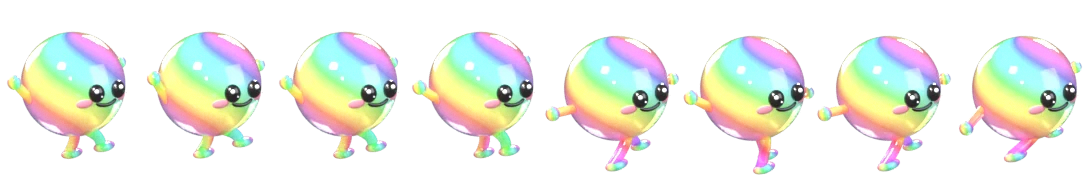
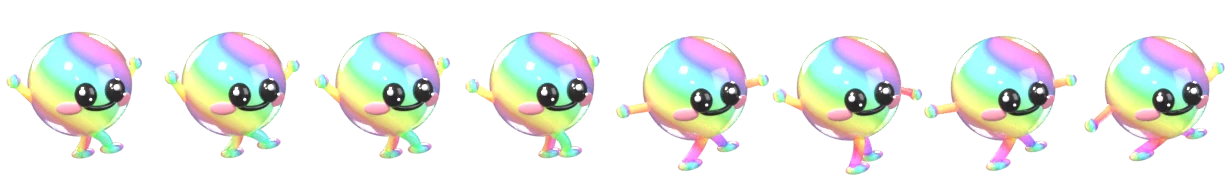
Game: jelly wobble physics, bigger happier love face
- Damped jelly wobble, separate from the speed stretch (width and height
  swing in opposite phase): a quick boing on take-off, a bigger one on
  double jump, a landing wobble scaled by the fall height, and a big slow
  "booooing" at the checkpoint launch with a happy wobble held through
  the whole flight. Off under reduced motion.
- Love face: bigger glossy eyes, bigger and thicker grin, bigger rosy
  cheeks; love frames turn more toward the camera so the whole face
  shows (sheets widened to fit the open arms, same height and centre).

Claude-Session: https://claude.ai/code/session_019fbWZCuFJHkf5tasQWWvE6

diff --git a/index.html b/index.html
@@ -1456,7 +1456,7 @@ const CONE1=1.75,CONE2=4.7;/* multipliers measured on 1,900 generated chart stre
 function coneAt(T,gp,f){const st=w=>{const a=[];for(let j=f-w+1;j<=f;j++){if(j<1||gp[j]||T[j]==null||T[j-1]==null)continue;a.push(T[j]-T[j-1])}return a},am=st(6),as=st(24);if(am.length<3||as.length<5)return{mu:0,sg:30};return{mu:.5*am.reduce((x,y)=>x+y,0)/am.length,sg:Math.max(15,Math.sqrt(as.reduce((x,y)=>x+y*y,0)/as.length))}}/* drift = half the recent average step, spread = typical step size over the last 24 candles */
 function msg(t){const m=document.getElementById('gMsg');m.textContent=t;m.className='gameMsg'+(t?' show':'')}
 function reset(){R=fresh();ensure();R.y=ground(R.sx);R.cam=R.y;R.refY=R.y}
-function jump(){const dbl=R.air;R.vy=hold||R.fly>0||!ST.holdj?-JV:-MINV;/* the longer the button is held, the higher the jump; a quick tap is a short hop */R.air=true;R.buf=0;R.top0=R.y;R.sq=-.14;R.tko=TKO;if(dbl&&!RMQ.matches)R.flip=FLIP;sfx('jump',1+rnd(-.07,.07))}
+function jump(){const dbl=R.air;wob(dbl?.14:.11,20);R.vy=hold||R.fly>0||!ST.holdj?-JV:-MINV;/* the longer the button is held, the higher the jump; a quick tap is a short hop */R.air=true;R.buf=0;R.top0=R.y;R.sq=-.14;R.tko=TKO;if(dbl&&!RMQ.matches)R.flip=FLIP;sfx('jump',1+rnd(-.07,.07))}
 const vib=p=>{if(!RMQ.matches&&!sfxOff&&ST.vib&&navigator.vibrate)try{navigator.vibrate(p)}catch(e){}};
 function shake(a){if(!RMQ.matches&&ST.shake)R.shk=Math.max(R.shk,a*ST.shake/2)}
 function hitStop(f){R.stop=Math.max(R.stop,f/60)}
@@ -1475,15 +1475,15 @@ function crash(why){if(R.shield){R.shield=false;sfx('pu_shield');msg('Shield sav
 function respawn(){let i=Math.floor(R.sx/CW);while(R.top[i]==null||i*CW<R.sx)i++;R.sx=i*CW+60;R.y=ground(R.sx);R.vy=0;R.air=false;R.jumps=0;R.lost=0;R.blocked=false;R.snap=1;R.fly=0}
 function power(k,x,y){sfx('pu_'+k);if(k==='shield')R.shield=true;else if(k==='magnet')R.magT=8;else R.x2T=10;msg(PU[k][2]+'!');R.msgT=1.4;for(let i=0;i<12;i++)R.fx.push({x:x+rnd(-30,30),y:y+rnd(-30,30),vx:rnd(-160,160),vy:rnd(-240,80),l:rnd(.4,.8),c:PU[k][0]})}
 function step(dt){if(R.dead)return;if(R.stop>0){R.stop-=dt;R.zp*=Math.exp(-6*dt);return}/* hit-stop: the whole game freezes for a few frames on a big moment */R.t+=dt;R.shk*=Math.exp(-14*dt);if(R.shk<.3)R.shk=0;R.zp*=Math.exp(-7*dt);const tgt=SP0*Math.min(1.7,1+.07*R.lvl);R.speed+=(tgt-R.speed)*Math.min(1,dt*2);R.cx+=R.speed*dt;/* the screen always scrolls right */{const nx=R.sx+R.speed*dt,gn=ground(nx),gc=ground(R.sx);/* an edge ahead (a wall, or the far side of a gap): if the runner only just touches it, it slides up and carries on; lower than that is the end */if(isFinite(gn)&&(!isFinite(gc)||gn<gc-VG)&&R.y>gn+SLIDE){R.blocked=true;R.lost=1}else{R.sx=nx;R.blocked=false}}ensure();/* a gap up (a vertical green line) stops the runner unless it is above the top edge: jump it */
- const wx=R.sx,gy=ground(wx);R.buf=Math.max(0,R.buf-dt);R.hurt=Math.max(0,R.hurt-dt);R.sq*=Math.exp(-9*dt);if(R.bnc>0)R.bnc-=dt;if(R.rx&&R.rx.t>0)R.rx.t-=dt;if(R.tko>0)R.tko-=dt;if(R.flip>0)R.flip-=dt;if(!R.air&&R.cpFly)R.cpFly=0;if(powered(R)&&!RMQ.matches&&Math.random()<dt*28)R.fx.push({x:R.sx+rnd(-50,20)*VK,y:R.y-rnd(20,150)*VK,vx:rnd(-260,-120),vy:rnd(-60,40),l:rnd(.25,.45),c:formOf(R)[3]?formOf(R)[3][Math.random()<.5?0:1]:'hsl('+Math.round(Math.random()*360)+',95%,62%)',g:.05});
+ const wx=R.sx,gy=ground(wx);R.buf=Math.max(0,R.buf-dt);R.hurt=Math.max(0,R.hurt-dt);R.sq*=Math.exp(-9*dt);if(R.bnc>0)R.bnc-=dt;if(R.rx&&R.rx.t>0)R.rx.t-=dt;if(R.tko>0)R.tko-=dt;if(R.wbA>0){R.wbT+=dt;R.wbA*=Math.exp(-2.6*dt);if(R.wbA<.004)R.wbA=0}if(R.cpFly&&R.air&&!RMQ.matches&&R.wbA<.09)R.wbA=.09;/* the checkpoint flight keeps a happy wobble going */if(R.flip>0)R.flip-=dt;if(!R.air&&R.cpFly)R.cpFly=0;if(powered(R)&&!RMQ.matches&&Math.random()<dt*28)R.fx.push({x:R.sx+rnd(-50,20)*VK,y:R.y-rnd(20,150)*VK,vx:rnd(-260,-120),vy:rnd(-60,40),l:rnd(.25,.45),c:formOf(R)[3]?formOf(R)[3][Math.random()<.5?0:1]:'hsl('+Math.round(Math.random()*360)+',95%,62%)',g:.05});
  if(!R.air){if(isFinite(gy)){if(gy-R.y<=DESC*dt){const up=R.y-gy;R.y=up>30?R.y-up*Math.min(1,dt*16):gy;/* a sudden rise (a curb or wall edge) is climbed smoothly */R.coy=0;R.refY=gy}else{R.air=true;R.jumps=1;R.vy=0;R.top0=R.y}}else if((R.coy+=dt)>.14){R.air=true;R.jumps=1;R.vy=0;R.top0=R.y}}
  if(R.air){R.vy+=G*(hold&&R.vy<0&&!(R.fly>0)?HOLDG:1)*(R.cpFly&&R.vy>0?.4:1)*dt;if(R.cpFly&&R.vy>900)R.vy=900;/* checkpoint glide: a floaty, capped fall so the moonwalk shows */R.y+=R.vy*dt;R.top0=Math.min(R.top0,R.y);
   const cont=isFinite(gy)&&(R.y-gy<SLIDE||Math.abs(ground(wx-CW*.6)-gy)<=VG);
   if(cont&&R.y>gy+6&&(R.vy<0||R.y-gy<SLIDE)){R.y-=(R.y-gy)*Math.min(1,dt*16);if(R.vy>0)R.vy=0}/* touching an edge slightly: slide up smoothly */
-  else if(cont&&R.vy>=0&&R.y>=gy-6){const dist=R.y-R.top0;R.y=gy;R.vy=0;R.air=false;R.fly=0;R.coy=0;R.refY=gy;R.cpFly=0;R.sq=Math.min(.3,.05+dist/2000);if(dist>60&&!RMQ.matches){R.bnc=.45;R.bncA=Math.min(55,dist/9)}if(dist>120)sfx('land',1+rnd(-.07,.07));if(dist>60)puff(R.sx,R.y,Math.min(12,dist/40|0));if(R.buf>0){R.jumps=1;jump()}}
+  else if(cont&&R.vy>=0&&R.y>=gy-6){const dist=R.y-R.top0;R.y=gy;R.vy=0;R.air=false;R.fly=0;R.coy=0;R.refY=gy;R.cpFly=0;wob(Math.min(.32,.06+dist/1400),17);R.sq=Math.min(.3,.05+dist/2000);if(dist>60&&!RMQ.matches){R.bnc=.45;R.bncA=Math.min(55,dist/9)}if(dist>120)sfx('land',1+rnd(-.07,.07));if(dist>60)puff(R.sx,R.y,Math.min(12,dist/40|0));if(R.buf>0){R.jumps=1;jump()}}
   else if(!isFinite(gy)&&R.y>R.cam+(H-H*.6)/Z+40){crash('You fell in a gap.');if(R.dead)return}}/* falling into a gap is only the end once the runner has dropped off the bottom of the screen: a double jump can still get out */
  if(R.fly>0)R.fly-=dt;
- if(R.sx>=R.nextCp){R.lvl++;R.nextCp+=CPD;R.vy=-CPV;R.air=true;R.jumps=1;R.top0=R.y;R.fly=2.6;R.cpFly=1;R.flip=0;/* checkpoint: a big launch into the air (R.fly marks the flight; R.cpFly draws it: gooey arrow up, moonwalk glide down) */sfx('cp');R.rings.push({x:R.sx,y:R.y-60*VK,r:60,l:.35});if(R.lvl===1||R.lvl===2)pop(R.sx,R.y-330*VK,R.lvl===1?'JOG':'RUN','#ebbd4e',1.1);msg('Checkpoint '+R.lvl);R.msgT=2;musicRate();R.zp=.05;shake(6);hitStop(2);vib(20)}
+ if(R.sx>=R.nextCp){R.lvl++;R.nextCp+=CPD;R.vy=-CPV;R.air=true;R.jumps=1;R.top0=R.y;R.fly=2.6;R.cpFly=1;R.flip=0;wob(.38,11);/* booooing *//* checkpoint: a big launch into the air (R.fly marks the flight; R.cpFly draws it: gooey arrow up, moonwalk glide down) */sfx('cp');R.rings.push({x:R.sx,y:R.y-60*VK,r:60,l:.35});if(R.lvl===1||R.lvl===2)pop(R.sx,R.y-330*VK,R.lvl===1?'JOG':'RUN','#ebbd4e',1.1);msg('Checkpoint '+R.lvl);R.msgT=2;musicRate();R.zp=.05;shake(6);hitStop(2);vib(20)}
  if(R.magT>0)R.magT-=dt;if(R.x2T>0)R.x2T-=dt;
  const cy=R.y-60*VK,cxw=R.sx;
  R.coins.forEach(c=>{if(c.got)return;if(R.magT>0){const dx=cxw-c.x,dy=cy-c.y,d=Math.hypot(dx,dy);if(d<420){const m=Math.min(d,900*dt);c.x+=dx/d*m;c.y+=dy/d*m}}if(Math.abs(c.x-cxw)<100*VK&&Math.abs(c.y-cy)<115*VK){c.got=1;react('coin',.18);R.combo=R.comboT>0?R.combo+1:1;R.comboT=1.3;R.mult=1+(R.combo>=4)+(R.combo>=8);R.bestCombo=Math.max(R.bestCombo,R.combo);const v=CT[c.t][3]*R.mult*(R.x2T>0?2:1);R.score+=v;sfx('c'+c.t,1+.055*Math.min(R.combo-1,12));pop(c.x,c.y-40,'+'+v,CT[c.t][0],.9+c.t*.15);for(let i=0;i<6+c.t*3;i++)R.fx.push({x:c.x,y:c.y,vx:rnd(-220,220),vy:rnd(-280,0),l:.4,c:CT[c.t][0]});if(c.t>=2){hitStop(c.t===3?4:2);R.zp=Math.max(R.zp,.03+.01*c.t);shake(c.t*2);vib(c.t===3?[20,20,40]:12)}if(R.combo%5===0){pop(R.sx,R.y-250*VK,'CHAIN x'+R.combo,'#a9b0ba',1.3);sfx('combo');shake(4)}}});
@@ -1559,6 +1559,7 @@ const ok=im=>im.complete&&im.naturalWidth>0;
 /* runner sheets (35 frames each; gold, and glass while powered up): walk 0-7, jog 8-15, run 16-23, take-off 24-26,
    rising 27-30, falling 31-34. The gait steps up per checkpoint; ground frames advance with distance so feet never skate. */
 const GAIT={walk:[0,74],jog:[8,62],run:[16,50]},gaitOf=s=>s.lvl<1?'walk':s.lvl<2?'jog':'run',RPRI={coin:1,pup:2,cp:3},TKO=.15,FLIP=.45;
+function wob(a,f){if(RMQ.matches)return;R.wbA=Math.max(R.wbA||0,a);R.wbT=0;R.wbF=f||16}/* jelly wobble: amplitude, frequency (rad/s); decays on its own */
 function react(k,d){if(RMQ.matches||(R.rx&&R.rx.t>0&&RPRI[R.rx.k]>RPRI[k]))return;R.rx={k,t:d,d}}/* a short body reaction; a bigger one is not cut off by a smaller one */
 function player(x,y,s){const g=cx,F=formOf(s),pw=!!F,fi0=F&&F[0](),im=fi0&&ok(fi0)?fi0:RUNNER,r=s.rx,rk=r&&r.t>0?r.k:'',u=rk?1-r.t/r.d:0,k=Math.sin(u*Math.PI);let sx=1,sy=1,rot=0,dy=0;
  if(pw){const p=.5+.5*Math.sin(s.t*7),hu=s.t*160;glow(x,y-85*VK,(150+30*p)*VK,F[1]||hueRGB(hu),.32+.12*p);glow(x,y-85*VK,(95+20*p)*VK,F[2]||hueRGB(hu+120),.22+.1*p)}/* powered aura in the form's colours, pulsing */
@@ -1566,6 +1567,7 @@ function player(x,y,s){const g=cx,F=formOf(s),pw=!!F,fi0=F&&F[0](),im=fi0&&ok(fi
  if(s.air){const v=Math.min(1,Math.abs(s.vy)/2400);sy+=.14*v;sx-=.1*v;rot=Math.max(-.35,Math.min(.35,s.vy/3200))}/* stretch with speed, tilt with the arc */
  else{const a=ground(s.sx+50),b=ground(s.sx-50);if(isFinite(a)&&isFinite(b))rot=Math.atan2(a-b,100)*.55}/* lean with the slope */
  if(cpf){const v=Math.min(1,Math.abs(s.vy)/2000);sx*=1.12*(1-.1*v);sy*=1.12*(1+.2*v)}/* a little bigger, stretched out along the flight */
+ if(s.wbA>0){const q=s.wbA*Math.sin(s.wbT*s.wbF);sx*=1+q;sy*=1-q*.9}/* jelly wobble */
  if(s.flip>0)rot+=(1-s.flip/FLIP)*Math.PI*2;/* double jump: a front flip */
  sx*=1+s.sq*.9;sy*=1-s.sq*.9;/* landing squash, set from the fall height */
  if(F===FORM.x2&&!RMQ.matches){const q=Math.sin(s.t*13);sx*=1+.09*q;sy*=1+.09*q}/* 2x: the whole body pulses */

diff --git a/scripts/icons/objects.py b/scripts/icons/objects.py
@@ -73,27 +73,27 @@ def face(targets, cx, cz, s=1.0):
             e.data.align_x = 'CENTER'; e.data.align_y = 'CENTER'; e.data.materials.append(principled('dollar', (1.0, 0.74, 0.18), 0.22, metallic=0.85, coat=0.8, emit=(1.0, 0.7, 0.15), emit_str=0.6))
             out.append(e); continue
         if LOVE:  # puppy eyes: bigger glossy black balls that pop out, each with a big and a small white shine
-            r = 0.125 * s; e = uv_sphere(f'eye{k}', r, tuple(p + n * 0.035 * s), (1, 0.8, 1.1)); e.data.materials.append(f)
+            r = 0.15 * s; e = uv_sphere(f'eye{k}', r, tuple(p + n * 0.035 * s), (1, 0.8, 1.1)); e.data.materials.append(f)
             e.rotation_euler = (-n).to_track_quat('Y', 'Z').to_euler(); out.append(e)
             shine = principled('shine', (0.85, 0.86, 0.9), 0.2, emit=(0.85, 0.86, 0.9), emit_str=0.5)  # a soft catch-light, not a white blob
             for dx, dz, rr in ((-0.38, 0.4, 0.26), (0.32, -0.3, 0.12)):
                 q = p + n * (0.035 * s + r * 0.85) + Vector((dx * r, 0, dz * r)); sh = uv_sphere('shine', rr * r, tuple(q)); sh.data.materials.append(shine); out.append(sh)
-            ch = _hit(targets, cx + k * 0.36 * s, cz - 0.24 * s)  # blush below each eye
+            ch = _hit(targets, cx + k * 0.4 * s, cz - 0.27 * s)  # blush below each eye
             if ch:
-                cp_, cn = ch; bl = uv_sphere('blush', 0.085 * s, tuple(cp_ + cn * 0.005), (1.5, 0.25, 0.8)); bl.data.materials.append(principled('blush', (1.0, 0.35, 0.45), 0.5, emit=(1.0, 0.3, 0.4), emit_str=0.3))
+                cp_, cn = ch; bl = uv_sphere('blush', 0.12 * s, tuple(cp_ + cn * 0.005), (1.5, 0.25, 0.8)); bl.data.materials.append(principled('blush', (1.0, 0.35, 0.45), 0.5, emit=(1.0, 0.3, 0.4), emit_str=0.3))
                 bl.rotation_euler = (-cn).to_track_quat('Y', 'Z').to_euler(); out.append(bl)
             continue
         e = uv_sphere(f'eye{k}', 0.062 * s, tuple(p - n * 0.012 * s), (1, 0.55, 1.15)); e.data.materials.append(f)
         e.rotation_euler = (-n).to_track_quat('Y', 'Z').to_euler(); out.append(e)
     pts = []
     for k in range(13):
-        a = math.radians(-58 + 116 * k / 12); W_, D_ = (0.22, 0.12) if LOVE else (0.13, 0.055)
+        a = math.radians(-58 + 116 * k / 12); W_, D_ = (0.27, 0.15) if LOVE else (0.13, 0.055)
         x = W_ * s * math.sin(a); z = (-0.31 - D_ * math.cos(a) + D_) * s
         h = _hit(targets, cx + x, cz + z)
         if h: pts.append(tuple(h[0] + h[1] * 0.004 * s))
     if len(pts) >= 6:
         r = [0.014, 0.019] + [0.021] * (len(pts) - 4) + [0.019, 0.014]
-        if LOVE: r = [v * 1.5 for v in r]
+        if LOVE: r = [v * 1.9 for v in r]
         out.append(tube('smile', pts, [v * s for v in r], f))
     return out
 
@@ -334,7 +334,7 @@ def o_runner(gait, frame):
     global DOLLAR
     if RUNNER_SKIN == 'green' and not LOVE:  # 2x: huge $ eyes that swell and shrink through the cycle (bouncy)
         n_ = 8 if gait in GAITS else AIR[gait]; DOLLAR = 1.2 + 0.4 * abs(math.sin(2 * math.pi * frame / n_))
-    fc = face([b], 0, 0.3 + bob, 0.95 * (1.25 if RUNNER_SKIN == 'green' else 1)); DOLLAR = 0.0
+    fc = face([b], 0, 0.3 + bob, 0.95 * (1.12 if LOVE else 1.25 if RUNNER_SKIN == 'green' else 1)); DOLLAR = 0.0
     if RUNNER_SKIN == 'blue':  # magnet form: a red horseshoe magnet stuck on top of the head
         red = principled('magred', (0.9, 0.06, 0.08), 0.25, coat=1.0, coat_rough=0.03); pole = principled('pole', (0.86, 0.87, 0.9), 0.2, metallic=1.0)
         top = Vector((0.05, 0, 1.0 + bob))
@@ -345,7 +345,7 @@ def o_runner(gait, frame):
     hub = link(bpy.data.objects.new('turn', None)); bpy.context.view_layer.update()
     for o in parts + fc:
         mw = o.matrix_world.copy(); o.parent = hub; o.matrix_world = mw
-    hub.rotation_mode = 'XYZ'; hub.rotation_euler = (0, math.radians(lean), math.radians(30))
+    hub.rotation_mode = 'XYZ'; hub.rotation_euler = (0, math.radians(lean), math.radians(14 if LOVE else 30))  # love frames turn toward the camera so the whole happy face shows
     return [hub], []
 
 def o_dance(frame, n=12):
